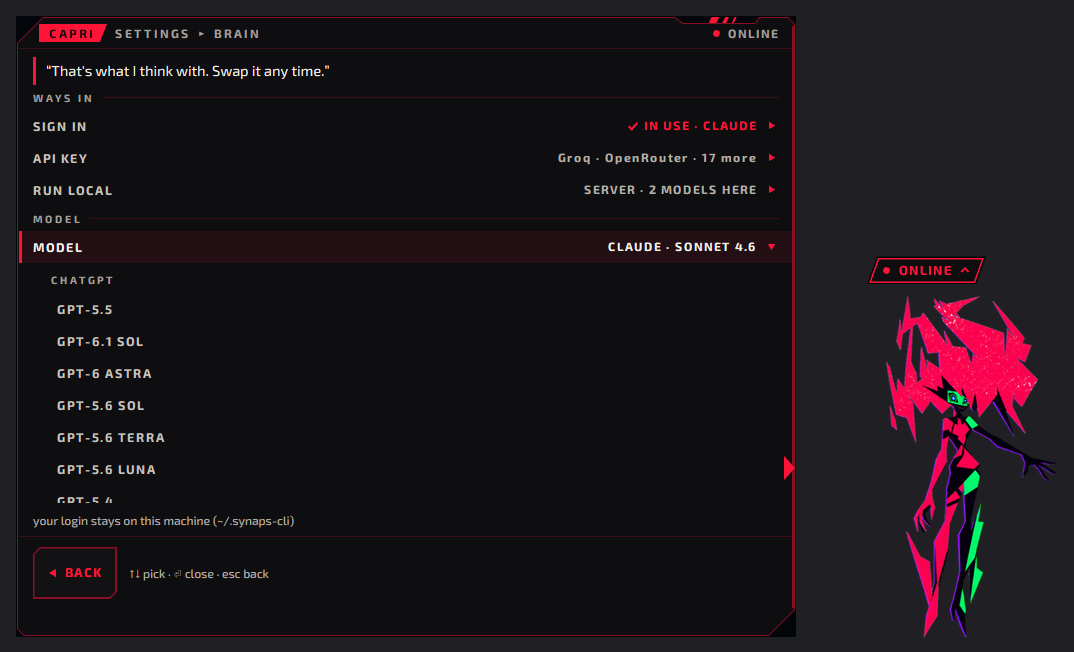
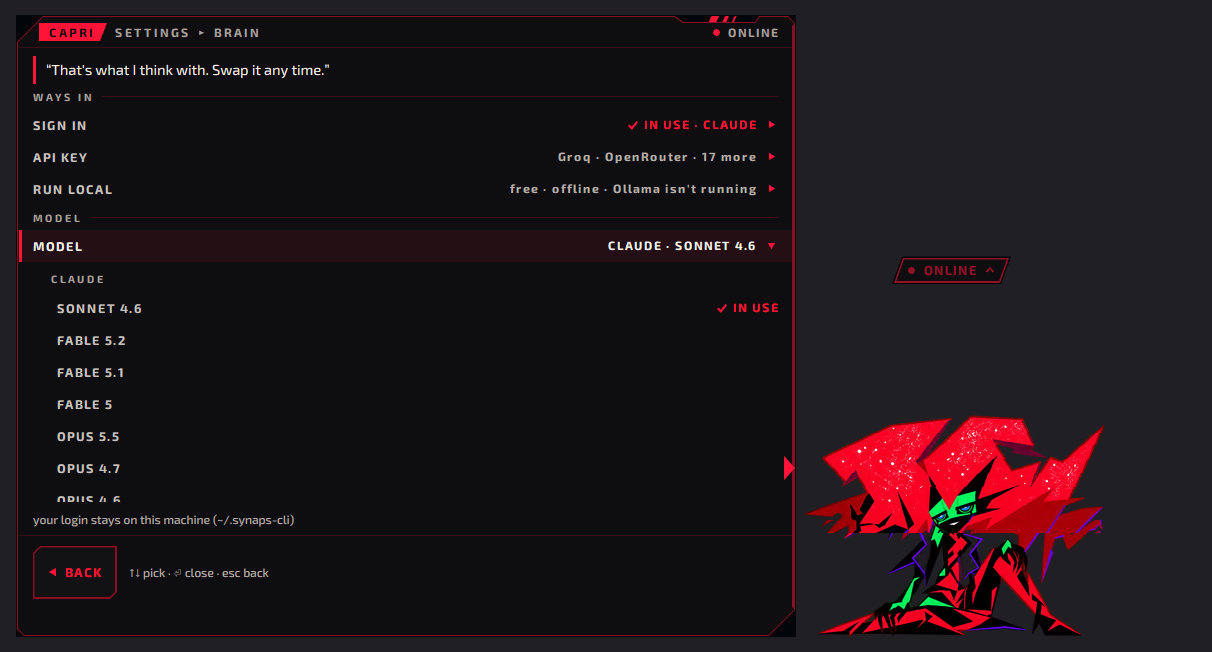
release 1.1.1: version, CHANGELOG cut, dry run (#134)
* release 1.1.1: version 1.1.0 -> 1.1.1, CHANGELOG cut, the new Known issues

- Cargo.toml, crates/synaps-client/Cargo.toml and the two package entries of Cargo.lock (nothing else in
  the lock). The setups take their version from Cargo.toml (/DAppVersion), the installers' manifest pins
  none of hers. The ABOUT example in settings.rs (doc comment and test fixture) and the bug form's
  Version placeholder say 1.1.1. SECURITY.md says "the latest release": nothing to change.
- CHANGELOG: `## Unreleased` (#131, #132) cut into one `## 1.1.1 (2026-11-20)` (her brain: free on a free
  ChatGPT account, Terra, the retired models, NOT ON YOUR PLAN, the provider-trouble mappings; her
  session: the context rollover and its privacy note; For developers; Known issues), an empty
  `## Unreleased` above it. #117's rules: plain facts, user-facing first, no names, dev history,
  "(was ...)" or before/after numbers. 50 lines in the notes.
- docs/INSTALL.md Known issues: the rollover (Windows) item stays; new: a ChatGPT account without Codex
  access reads as AT THE LIMIT. Restored what 1.1.0's squash dropped from it: the taskbar button's name
  for a screen reader (#122), and the Windows `synaps login` item's "sign in from her (Settings > Brain)"
  and "Grok can't be signed in on Windows yet". The CHANGELOG's Known issues use the same words.

* README: the Brain still from 1.1.1's own build (no retired ChatGPT models in it), its alt text to match
[…]

diff --git a/src/line/settings.rs b/src/line/settings.rs
@@ -101,7 +101,7 @@ pub struct Prefs {
     pub wake: bool,
     /// `[voice] enabled`: "HEY CAPRI" is dim while it is off.
     pub voice: bool,
-    /// `CAPRI 1.1.0 · SYNAPS 0.12.0 · SONNET 4.6`.
+    /// `CAPRI 1.1.1 · SYNAPS 0.12.0 · SONNET 4.6`.
     pub about: String,
     /// Her BRAIN: the model she thinks with and whether it has a login (`brain` above is her
     /// behaviour engine's switch).
@@ -1759,7 +1759,7 @@ mod tests {
     }
 
     fn prefs() -> Prefs {
-        Prefs { attention: Attention::Mix, brain: true, wake: true, voice: true, about: "CAPRI 1.1.0".into(), mind: mind("claude-sonnet-4-6", Some(true)), says: None, new: 0, signing: None }
+        Prefs { attention: Attention::Mix, brain: true, wake: true, voice: true, about: "CAPRI 1.1.1".into(), mind: mind("claude-sonnet-4-6", Some(true)), says: None, new: 0, signing: None }
     }
 
     /// Her brain on `model`, a daemon on this machine; `signed_in`: a login (None: can't tell).

diff --git a/CHANGELOG.md b/CHANGELOG.md
@@ -2,72 +2,59 @@
 
 ## Unreleased
 
+## 1.1.1 (2026-11-20)
+
+She runs free on a ChatGPT account, a free one too: no API key, no card, no GPU. On Linux her context
+rolls over by itself, so an always-on chat doesn't fill her model's context.
+
 ### Her brain
-- **She runs free on a free ChatGPT account.** ChatGPT's sign-in (Synaps' `openai-codex`) takes any
-  ChatGPT account, a free one too: no API key, no card, no GPU. Its row says so wherever a brain is
-  picked: "free account works" in Settings ▸ Brain's SIGN IN, in her setup's "Her model" page, and in
-  install.sh's and install.ps1's lists. The README says it up top and in Get her, with the usage
-  limits free accounts have: when one is used up she says she's hit her model's limit (AT THE LIMIT).
-  Nothing is picked for you: "Choose later" is still the default, and the order is the same.
-- **ChatGPT's default model is GPT-5.6 Terra**, one a free account runs her on (GPT-5.6 Luna, next in
-  the list, too): a ChatGPT sign-in, from her Settings or her installers, puts her on it. The bigger
-  ones in MODEL's list (GPT-5.6 Sol, GPT-6 Astra, GPT-6.1 Sol) need a paid plan: on one, pick GPT-6.1
-  Sol in Settings ▸ Brain ▸ MODEL, OpenAI's recommendation for paid plans. A model you picked stays
-  yours.
-- **GPT-5.5, GPT-5.4, GPT-5.4 Mini and GPT-5.3 Codex Spark are gone from ChatGPT's list**: OpenAI
-  retired them from ChatGPT sign-ins, for every plan. If her `[session] model` is one of those four
-  (v1.1.0's ChatGPT default was GPT-5.5), it moves to GPT-5.6 Terra once as she starts, written back
-  to settings.toml, and her log says `model … is retired from ChatGPT sign-ins: now …`. If
-  settings.toml can't be written she runs on Terra all the same, after a reload too, and `--model`
-  with one of the four is Terra as well. Nothing else is changed.
-- **A model your ChatGPT plan doesn't run reads as NOT ON YOUR PLAN.** She says "That model isn't on
-  your ChatGPT plan. Pick another in Settings ▸ Brain ▸ MODEL." instead of Synaps' error, which
-  pointed at a `/model` her Line doesn't take. Only when her model is on ChatGPT; it's gone as soon
-  as another model is hers.
-- **A provider's rate limit reads as one.** When ChatGPT, a key service or Gemini answers 429 Too Many
-  Requests and Synaps' retries are spent, or Claude's stream says `rate_limit_error`, she says she's
-  hit her model's limit (AT THE LIMIT), as for a used-up allowance.
-- **A provider's server error reads as MODEL BUSY.** A 500, 502, 503, 504 or 529 once Synaps' retries
-  are spent, and a reply stopped mid-way because the model is at capacity (ChatGPT's, xAI's or
-  Muse's): she says her model's swamped, to try her again in a minute. A 408 (a request that timed
-  out) reads as NO CONNECTION.
-- **ChatGPT turning her login down reads as LOGGED OUT.** Its 401, and a reply stopped because its
-  sign-in was rejected (ChatGPT's, xAI's or Muse's): she asks to be signed in again, and her account's
-  row in Settings ▸ Brain signs in again. Only when her model is on that account; a 403 still shows
-  its own error.
-- **An account's or a key service's row in Settings ▸ Brain fits at the Line's narrowest.** A login
-  that ran out reads `⏎ SIGN IN AGAIN` by its red dot (a key service's, `REFUSED · ⏎ NEW KEY`; Grok's
-  on Windows, `NEEDS NEWER SYNAPS`): the longer words ran past the row at 480 px.
+- **Free on a free ChatGPT account.** Its row says "free account works" in Settings ▸ Brain, her setup's
+  "Her model" page and the installers' lists. Free accounts have usage limits: when yours is used up she
+  says she's hit her model's limit (AT THE LIMIT). Wait for it to reset, or pick another brain.
+- **ChatGPT's default is GPT-5.6 Terra,** which a free account runs (GPT-5.6 Luna too): a ChatGPT sign-in
+  puts her on it. GPT-5.6 Sol, GPT-6 Astra and GPT-6.1 Sol need a paid plan; on a plan that doesn't run her
+  model she says NOT ON YOUR PLAN and to pick another in Settings ▸ Brain ▸ MODEL, instead of Synaps'
+  error (only while her model is on ChatGPT). A model you picked stays yours.
+- **GPT-5.5, GPT-5.4, GPT-5.4 Mini and GPT-5.3 Codex Spark are gone from ChatGPT's list:** OpenAI retired
+  them from ChatGPT sign-ins. A `[session] model` set to one of them moves to GPT-5.6 Terra once, as she
+  starts (written to settings.toml, said in her log); `--model` with one of them runs Terra.
+- **A provider's trouble reads in her words.** Once Synaps' retries are spent, a 429 (ChatGPT, a key
+  service, Gemini; Claude's `rate_limit_error`) is AT THE LIMIT, a 500, 502, 503, 504 or 529 (or a reply
+  stopped at capacity) is MODEL BUSY, and a 408 is NO CONNECTION. ChatGPT's 401 is LOGGED OUT, with
+  `SIGN IN AGAIN ▸` (only while her model is on that account).
+- **Settings ▸ Brain's account and key-service rows fit** at the Line's narrowest (480 px).
 
 ### Her session
-- **Her context rolls over by itself.** An always-on chat no longer fills her model's context: she
-  turns Synaps' automatic context rollover on for her own session (`/context auto`, that session only;
-  Synaps' config and your other sessions stay as they are), between turns. If Synaps has it on there
-  already (`context_management.mode = auto` in its config, or another client's `/context auto`), she
-  leaves it to Synaps; after a daemon reload any auto she finds counts as Synaps'. When the context
-  gets long, Synaps archives the older messages and carries on in a fresh window with the recent ones,
-  with no summarizing call. It's for ChatGPT, Claude and other 200k+ brains: she skips it for a local
-  model and for a window under 128k, and a brain picked later is decided again (her session's mode
-  asked first). The Line shows one quiet row where it happened, and Synaps' own notices about it go to
-  her log, with one line saying it's on or why not (a `synaps attach` open on her session prints the
-  answers to her mode query and her `/context`, and her join and leave lines each time she sends it).
-  `[session] rollover = false` leaves it to Synaps. Not on Windows yet: Synaps 0.12 archives on Linux
-  and macOS only (her log says so).
-- **Privacy:** the archive holds both sides of the chat word for word, and Synaps never prunes it (it
-  stays after `rollover = false` and `/clear`). It's shared by every session in the same Synaps
-  project. Her session's folder is your home by default, so if your home has a `.git` or a
-  `.synaps-project`, sessions in folders under it without their own can search her archived messages
-  ([REFERENCE.md](docs/REFERENCE.md#the-session-rules)).
+- **Her context rolls over by itself (Linux).** She turns on Synaps' automatic context rollover for her
+  own session only (`/context auto`; Synaps' config and your other sessions stay as they are): when the
+  context gets long, Synaps archives the older messages and carries on in a fresh window with the
+  recent ones, and the Line shows one quiet row where it happened. It's for ChatGPT, Claude and other
+  brains with room for it (most have 200k): she skips it for a local model and for a window under 128k, and
+  when Synaps has it on already (its config, or another client's `/context auto`) she leaves it to
+  Synaps. Her log says which. `[session] rollover = false` leaves it to Synaps. Not on Windows yet
+  (Known issues).
+- **Privacy:** the archive (`~/.synaps-cli/context-archives/`) holds both sides of the chat word for
+  word, and Synaps never prunes it: it stays after `rollover = false` and `/clear`. It's shared by every
+  session in the same Synaps project. Her session's folder is your home by default, so if your home has
+  a `.git` or a `.synaps-project`, sessions in folders under it without their own can search her
+  archived messages (docs/REFERENCE.md, The session rules).
 
 ### For developers
-- `synaps-avatar --providers` has a seventh field: a hint shown beside a brain's name (ChatGPT's alone
-  has one; `Provider::hint`). Her installers show it as her table gives it and keep no copy; an older
-  her's six fields still read, with no hint. steps.ps1's `brains:` lines end on it.
-- The vendored synaps-client sends engine commands (`Client::engine_command`, `Event::EngineReply`,
-  `Error::EngineCommandRefused`) and queries (`Client::query`, `SessionQuery::ContextReport`,
-  `Event::QueryReply`, `Error::QueryFailed`), to port back (`crates/synaps-client/VENDORED.md`). The
-  fake daemon answers `context auto`, `context off` and the context report as Synaps 0.12 does
-  (`FAKE_CONTEXT=auto`: on by its config).
+- `synaps-avatar --providers` has a seventh field, a hint beside a brain's name (ChatGPT's alone); her
+  installers show it as given, and an older her's six fields still read.
+- The vendored synaps-client sends engine commands and queries (`Client::engine_command`, `Client::query`
+  and their events and errors), to port back (crates/synaps-client/VENDORED.md). The fake daemon
+  answers `context auto`, `context off` and the context report as Synaps 0.12 does.
+
+### Known issues
+- Windows: her context doesn't roll over yet. Synaps 0.12 keeps its context archive on Linux and macOS
+  only, so `[session] rollover` (docs/REFERENCE.md) is skipped there (her log says so). A long chat
+  fills her model's context until a turn is refused as too long; then compact or clear it from Synaps
+  (`/compact` or `/clear` in `synaps --attach capri`).
+- A ChatGPT account without Codex (coding) access reads as AT THE LIMIT: Synaps 0.12 words its refusal
+  as the same 429 Too Many Requests a rate limit gets, so she can't tell them apart. If it never
+  clears, pick another brain in Settings ▸ Brain.
+- The rest are in docs/INSTALL.md's Known issues.
 
 ## 1.1.0 (2026-11-19)
 

diff --git a/docs/INSTALL.md b/docs/INSTALL.md
@@ -215,11 +215,11 @@ she runs through XWayland, the X server those desktops keep for X apps.
 - **Hyprland** has no idle time for her yet: your presence is the pointer moving, so typing alone
   for 5 min reads as away. Hyprland before 0.40 isn't supported: she takes XWayland there.
 - **On Windows, Synaps 0.12's own `synaps login`** opens a sign-in tab cut at the URL's first `&`:
-  copy the whole URL it prints into your browser, or sign in through her installers' step, which
-  opens it whole (install.ps1 puts it there too; the default folder shown; `-Provider` for another
-  account than Claude):
+  copy the whole URL it prints into your browser, or sign in from her (Settings ▸ Brain) or through
+  her installers' step, which open it whole (install.ps1 puts it there too; the default folder
+  shown; `-Provider` for another account than Claude):
   `powershell -NoProfile -ExecutionPolicy Bypass -File "$env:LOCALAPPDATA\Programs\synaps-avatar\steps\steps.ps1" login`
-  Grok's sign-in never prints its URL, so the Windows installers don't offer Grok yet
+  Grok's sign-in never prints its URL, so Grok can't be signed in on Windows yet
   ([WINDOWS.md](WINDOWS.md#the-installer)).
 - **Windows:** the installers are unsigned, so a browser download meets SmartScreen ("More info",
   then "Run anyway"); Windows 10 and Windows 11 on Arm are untested; a click on one of her notifications does nothing (as
@@ -227,10 +227,17 @@ she runs through XWayland, the X server those desktops keep for X apps.
   Redistributable; live audio is still to check on real hardware: her desktop checks ran in a
   Windows 11 VM, with no real audio ([WINDOWS.md](WINDOWS.md)). Linux has no tray icon yet: HIDE's
   chip is the way back there.
+- **Her taskbar button's name, for a screen reader (Windows):** on a first run, Explorer can name
+  her button with her old tooltip followed by the current one, so a screen reader hears both
+  (`capri-syn · SPEAKING capri-syn · ONLINE`). Her tooltip is one string, and the hover popup shows
+  the current one alone: the name chains after a tooltip change ([WINDOWS.md](WINDOWS.md)).
 - **Windows: her context doesn't roll over yet.** Synaps 0.12 keeps its context archive on Linux and
   macOS only, so `[session] rollover` ([REFERENCE.md](REFERENCE.md#the-session-rules)) is skipped there
   (her log says so). A long chat fills her model's context until a turn is refused as too long; then
   compact or clear it from Synaps (`/compact` or `/clear` in `synaps --attach capri`).
+- **A ChatGPT account without Codex (coding) access** reads as AT THE LIMIT: Synaps 0.12 words its
+  refusal as the same 429 Too Many Requests a rate limit gets, so she can't tell them apart. If it
+  never clears, pick another brain in Settings ▸ Brain.
 - **`XDG_RUNTIME_DIR` unset:** she and her voice sidecar look for the Linux socket in different
   places: she in the temp dir (`$TMPDIR`, else `/tmp`), the sidecar in `/run/user/<uid>`. Set it, or
   set `CAPRI_VOICE_SOCK` for both. It isn't aligned yet because that would change how she behaves.

diff --git a/README.md b/README.md
@@ -174,7 +174,7 @@ SETTINGS from her right-click menu. A change is written the moment you make it.
 </p>
 
 <p align="center">
-  <img src="docs/media/still-brain.png" width="100%" alt="Settings, Brain: three ways in, SIGN IN (IN USE · CLAUDE), API KEY and RUN LOCAL (2 MODELS HERE); and MODEL open as a menu of every model she can use, by provider: ChatGPT's GPT-5.5, GPT-6.1 SOL and the rest">
+  <img src="docs/media/still-brain.png" width="100%" alt="Settings, Brain: three ways in, SIGN IN (IN USE · CLAUDE), API KEY and RUN LOCAL; and MODEL open as a menu of every model she can use, by provider: Claude's SONNET 4.6 (IN USE), FABLE 5.2 and the rest">
   <br><b>Settings ▸ Brain</b> · <sub>Pick what she thinks with.</sub>
 </p>
 
@@ -242,7 +242,7 @@ Both do the same steps, and a rerun is an upgrade:
 opens on it), add an API key or run a local model. Her installers ask first: an account, a model on
 your PC, an API key, or later.
 
-**Free:** pick ChatGPT and sign in with any ChatGPT account, a free one too: a free account runs her
+**Free:** pick ChatGPT and sign in with a ChatGPT account, a free one too: a free account runs her
 on GPT-5.6 Terra (Luna works too); the bigger models need a paid plan. No API key, no card, no GPU.
 Free accounts have usage limits: when hers is used up she says she's hit her model's limit (her tag
 flashes AT THE LIMIT). Wait for it to reset, or pick another brain in Settings ▸ Brain. No account
